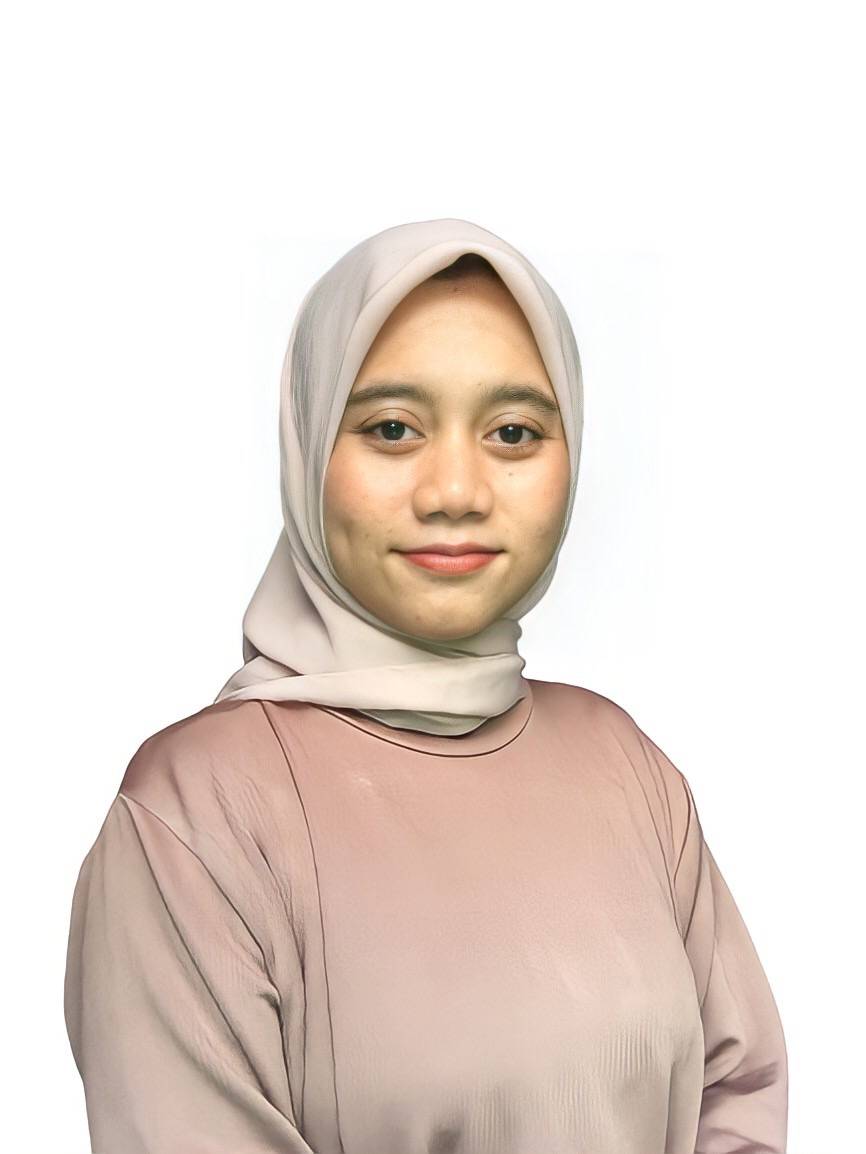
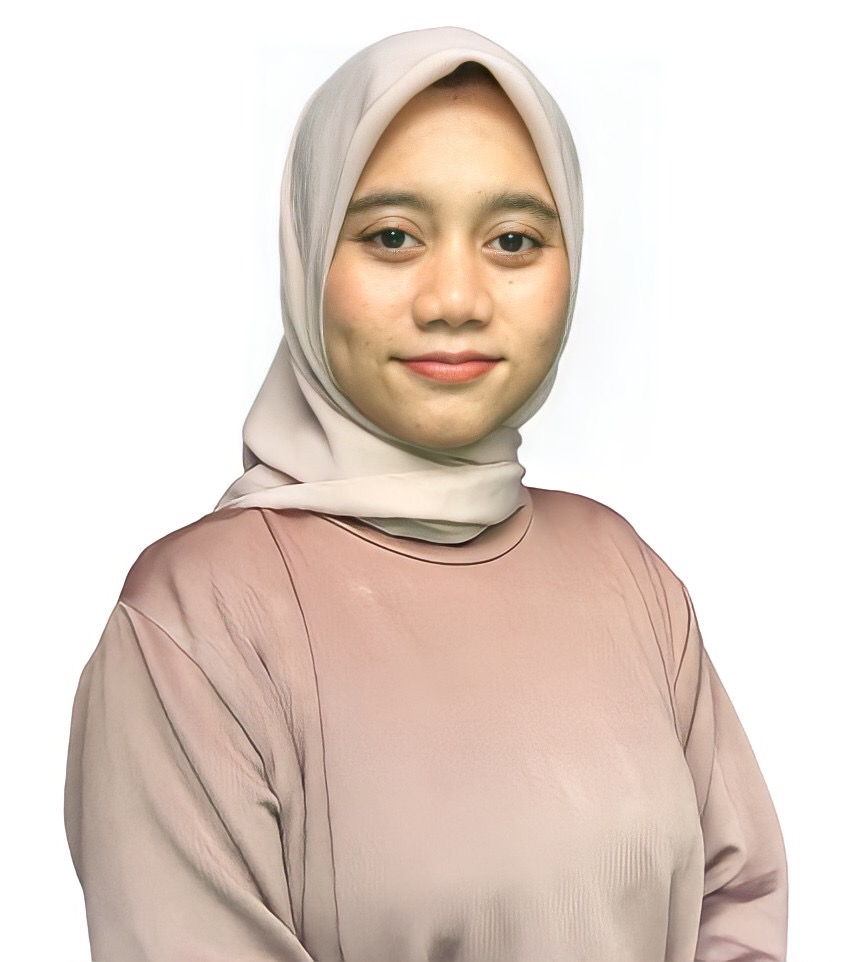
change images

Changed region(s): [[0.0606, 0.0312, 0.9394, 1.0], [0.0606, 0.8732, 0.1212, 0.9667], [0.4848, 0.9979, 0.5152, 1.0]]

diff --git a/index.html b/index.html
@@ -29,7 +29,7 @@
       <a class="navbar-brand js-scroll-trigger" href="#page-top">
         <span class="d-block d-lg-none">Triratnasari Muslimah</span>
         <span class="d-none d-lg-block">
-          <img class="img-fluid img-profile rounded-circle mx-auto mb-2" src="img/image1.jpg" alt="">
+          <img class="img-fluid img-profile rounded-circle mx-auto mb-2" src="img/image0.jpg" alt="">
         </span>
       </a>
       <button class="navbar-toggler" type="button" data-toggle="collapse" data-target="#navbarSupportedContent" aria-controls="navbarSupportedContent" aria-expanded="false" aria-label="Toggle navigation">
